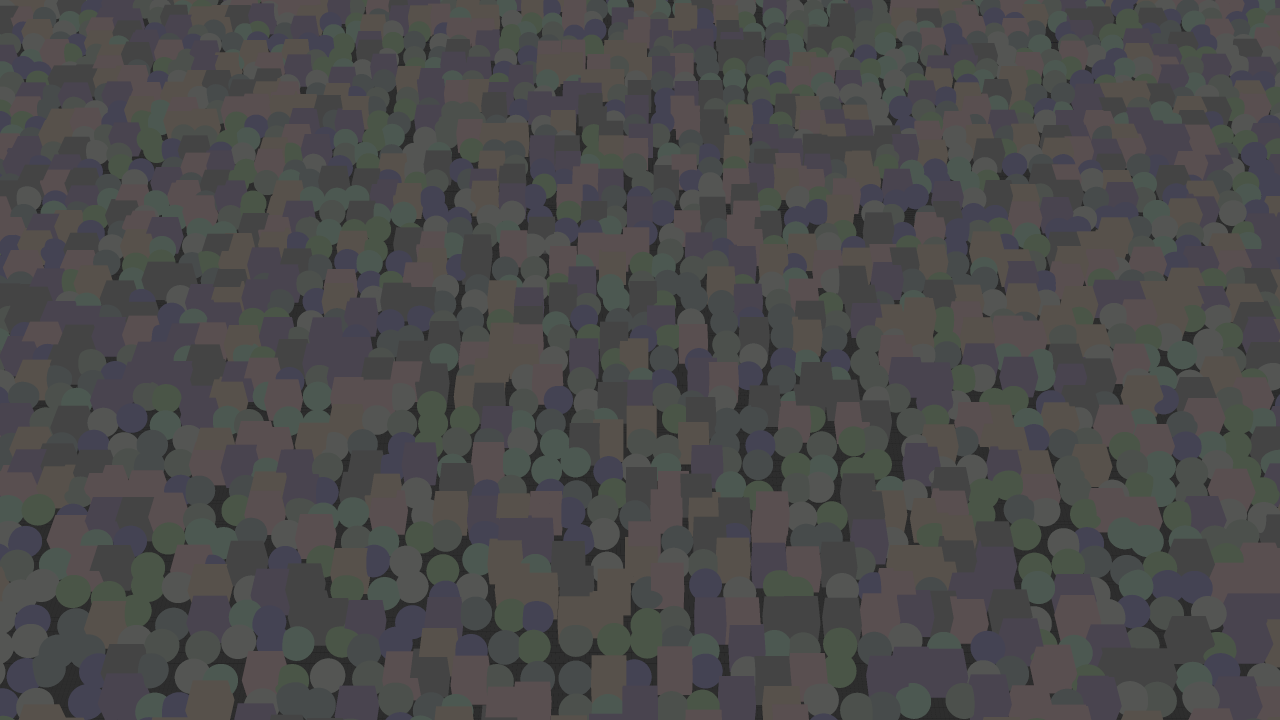
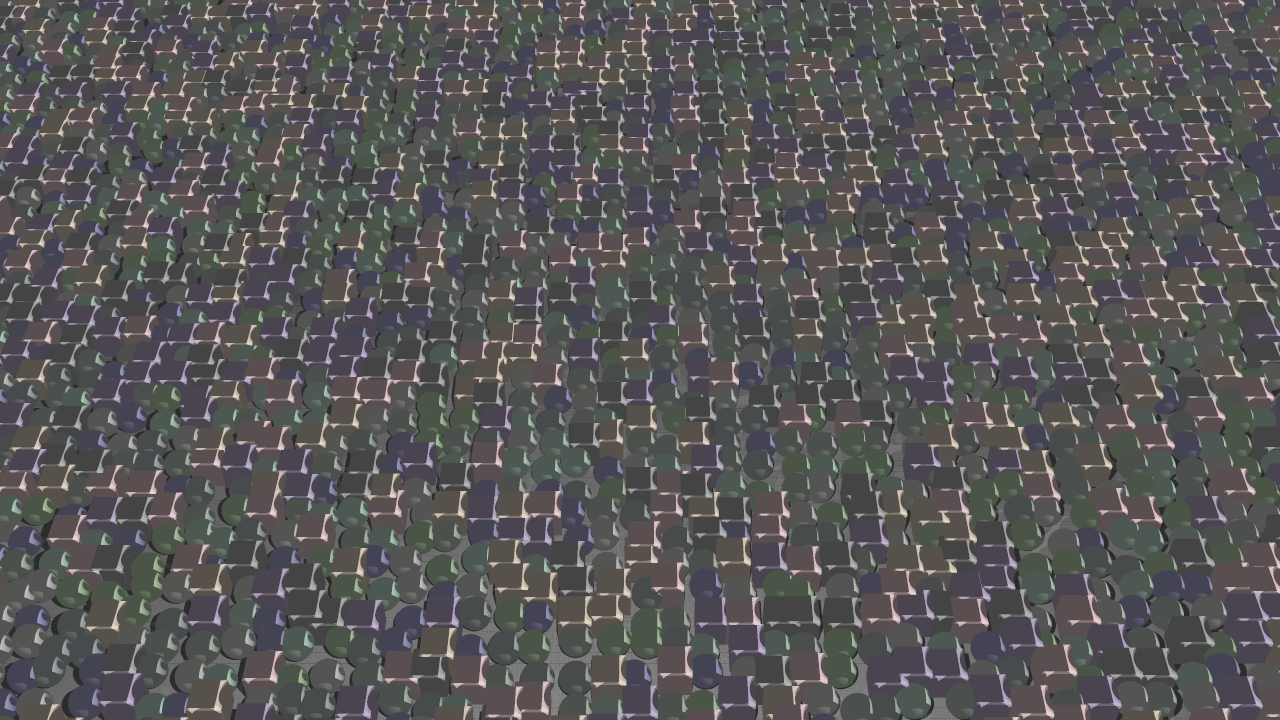
w

diff --git a/src/raytrace.cpp b/src/raytrace.cpp
@@ -8,7 +8,7 @@
 #include "math.h"
 
 using namespace std;
-vector<yobj::shape*> lights= vector<yobj::shape*>{};
+vector<yobj::instance*> lights;
 float epsilon = 1e-4;
 
 ym::vec3f triangleNormal(const yobj::mesh* msh, int eid, ym::vec3f euv) {
@@ -32,13 +32,8 @@ ym::vec3f linePosition(const yobj::mesh* msh, int eid, ym::vec3f euv) {
 }
 
 ym::vec4f textureLDR(const yobj::mesh* msh, int eid, ym::vec3f euv, yobj::texture* tex ){
-  //cout<<msh->shapes[0]->texcoord.size()<<endl;
-  //auto uv = trianglePosition(msh, eid, euv);
-  //cout<<" i "<<msh->shapes[0]->texcoord[eid].x<<" j " <<msh->shapes[0]->texcoord[eid].y<<endl;
   auto tr = msh->shapes[0]->triangles[eid];
 
-  //auto uv =
-  //cout<<"tx "<<msh->shapes[0]->texcoord.size()<<" tr "<<msh->shapes[0]->triangles.size()<<endl;
   float u1 = msh->shapes[0]->texcoord[tr.x].x;
   float v1 = msh->shapes[0]->texcoord[tr.x].y;
   float u2 = msh->shapes[0]->texcoord[tr.y].x;
@@ -48,7 +43,6 @@ ym::vec4f textureLDR(const yobj::mesh* msh, int eid, ym::vec3f euv, yobj::textur
 
   float u = euv.x*u1 + euv.y*u2 + euv.z*u3;
   float v = euv.x*v1 + euv.y*v2 + euv.z*v3;
-
 
   float s = (fmod(u,1.0f))*tex->width();
   float t = (fmod(v,1.0f))*tex->height();
@@ -102,7 +96,7 @@ ybvh::scene* make_bvh(yobj::scene* scn) {
     auto shape=mesh->shapes[0];
 
     if (!shape->points.empty()) {
-      lights.push_back(shape);
+      //lights.push_back(shape);
       continue;
 
     } else if (!shape->lines.empty()) {
@@ -125,8 +119,10 @@ ybvh::scene* make_bvh(yobj::scene* scn) {
 
     auto shp = ist->msh->shapes[0];
 
-    if(!shp->points.empty())
+    if(!shp->points.empty()){
+      lights.push_back(ist);
       continue;
+    }
 
     //auto new_frame = ym::transform_frame(ym::inverse(ym::to_frame(scn->cameras[0]->xform())),ym::to_frame(ist->xform()));
     //auto iid =
@@ -158,11 +154,7 @@ ym::ray3f camera_ray(yobj::camera* cam, float u, float v, float w, float h){
 
 ym::vec4f compute_color(const ybvh::scene* bvh,const ym::vec4f& amb, const yobj::scene* scn, ym::ray3f ray){
 
-  //ym::transform_ray(ym::inverse(ym::to_frame(scn->cameras[0]->xform())),ray);
-  //ray=ym::transform_ray(ym::to_frame(scn->cameras[0]->xform()),ray);
   auto intersection = ybvh::intersect_scene(bvh, ray, false);
-
-//  ym::ray3f r = ym::ray3f(ym::transform_ray(ym::to_frame(scn->instances[intersection.iid]->xform()),ray));
 
   ym::vec4f c = ym::vec4f(0,0,0,1);
 
@@ -193,12 +185,12 @@ ym::vec4f compute_color(const ybvh::scene* bvh,const ym::vec4f& amb, const yobj:
       }
       for(auto light:lights){
 
-        auto l = ym::normalize(light->pos[0]-p);
-        auto r = ym::length(light->pos[0]-p);
+        auto l = ym::normalize(light->translation-p);
+        auto r = ym::length(light->translation-p);
 
         ym::ray3f sr = ym::ray3f(p,l,epsilon,r);
         auto shadow = ybvh::intersect_scene(bvh, sr, false);
-        auto In = light->mat->ke / (r * r);
+        auto In = light->msh->shapes[0]->mat->ke / (r * r);
         if(!shadow) {
           auto v = ym::normalize(ray.o-p);
           auto h = ym::normalize((v+l));
@@ -247,8 +239,8 @@ ym::vec4f compute_color(const ybvh::scene* bvh,const ym::vec4f& amb, const yobj:
 
       for(auto light:lights){
 
-        auto l = normalize(light->pos[0]-p);
-        auto r = length(light->pos[0]-p);
+        auto l = normalize(light->translation-p);
+        auto r = length(light->translation-p);
 
         auto v = ym::normalize(ray.o-p);
         auto h = ym::normalize((v+l));
@@ -257,7 +249,7 @@ ym::vec4f compute_color(const ybvh::scene* bvh,const ym::vec4f& amb, const yobj:
         auto shadow = ybvh::intersect_scene(bvh, sr, false);
 
         if(!shadow) {
-          auto In = light->mat->ke / (r * r);
+          auto In = light->msh->shapes[0]->mat->ke / (r * r);
           c.xyz() += kd * In * ym::sqrt(1-ym::abs(ym::dot(n,l)))
                   + ks * In * ym::pow(sqrt(1-ym::abs(ym::dot(n,h))),ns);
         }
@@ -341,8 +333,9 @@ int main(int argc, char** argv) {
   /*for(auto ist:scn->instances) {
     cerr << ist->msh->shapes[0]->mat->kd_txt->path << endl;
   }*/
-  // create bvh
 
+
+  // create bvh
   yu::logging::log_info("creating bvh");
   auto bvh = make_bvh(scn);
   yu::logging::log_info("bvh created");
